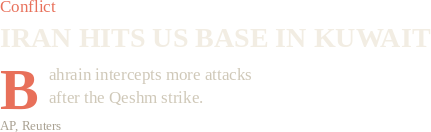
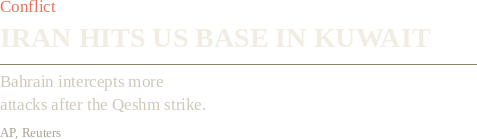
v4.2: drop cap removed, Conflict sub back to plain text with hairline above it

diff --git a/main.py b/main.py
@@ -17,9 +17,10 @@ Politics 251-11, each a 28pt stat with a micro-label above it --
 METACRITIC / PINJAMAN UKRAINA / HASIL VOTE -- under a thin hairline
 rule, source right-aligned on the figure baseline; v4.1 shrank the
 figures from 38pt and added the labels after Grey asked what the bare
-numbers meant), a drop cap on the
-numberless Conflict card, a deterministic paper-grain tile over the ink,
-and a discreet footer sources line. Facts and words are unchanged from
+numbers meant), a thin hairline above the sub on the numberless
+Conflict card (v4.2: the 58pt drop cap that used to sit there split
+"Bahrain" into "B | ahrain" and was removed), a deterministic
+paper-grain tile over the ink, and a discreet footer sources line. Facts and words are unchanged from
 v3. The program is deterministic: two runs write identical bytes.
 """
 
